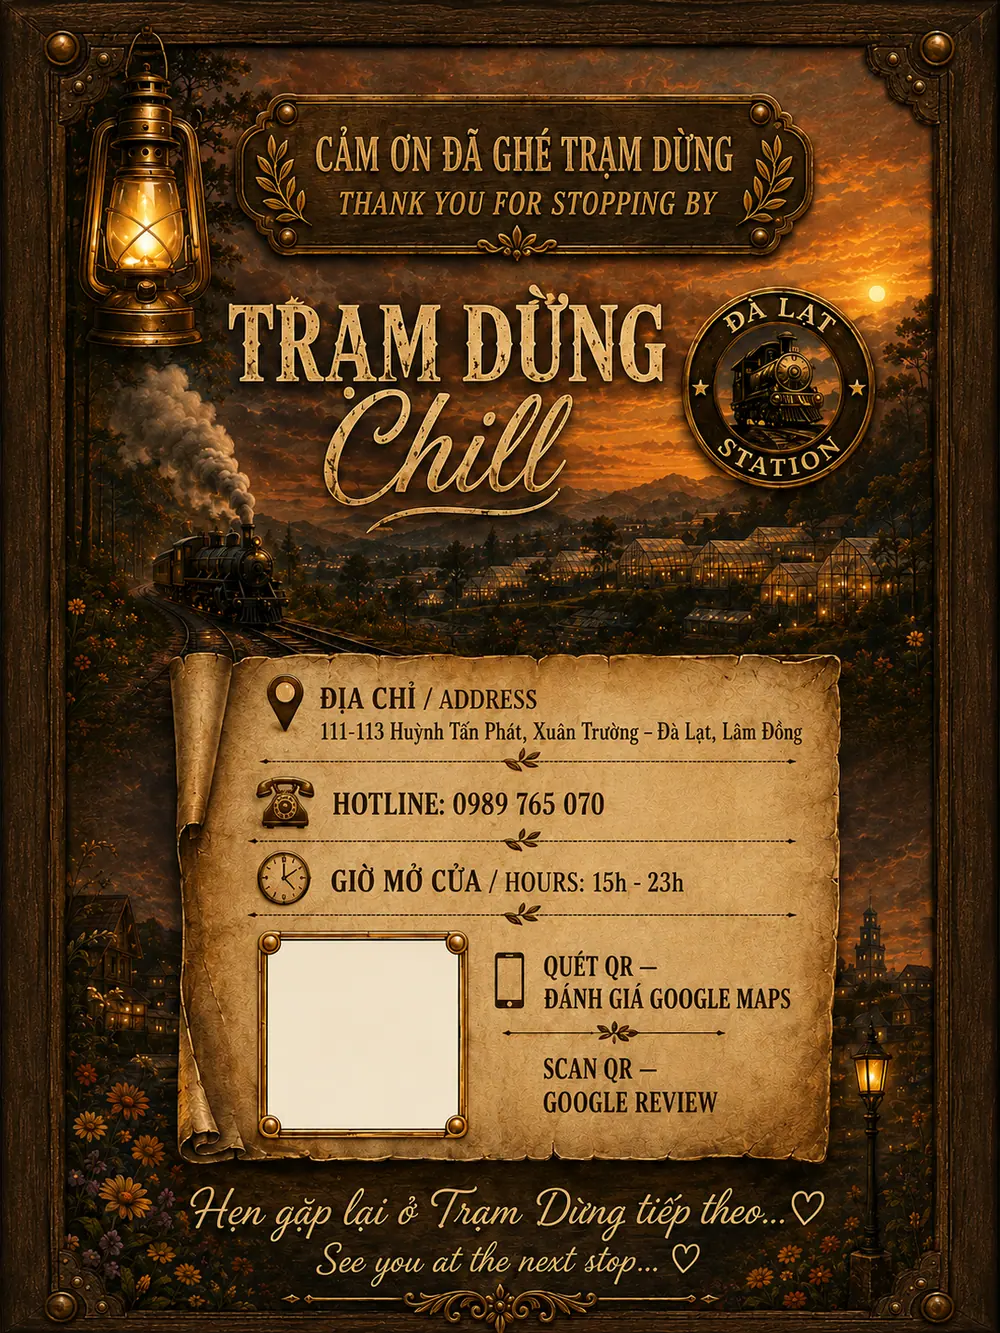
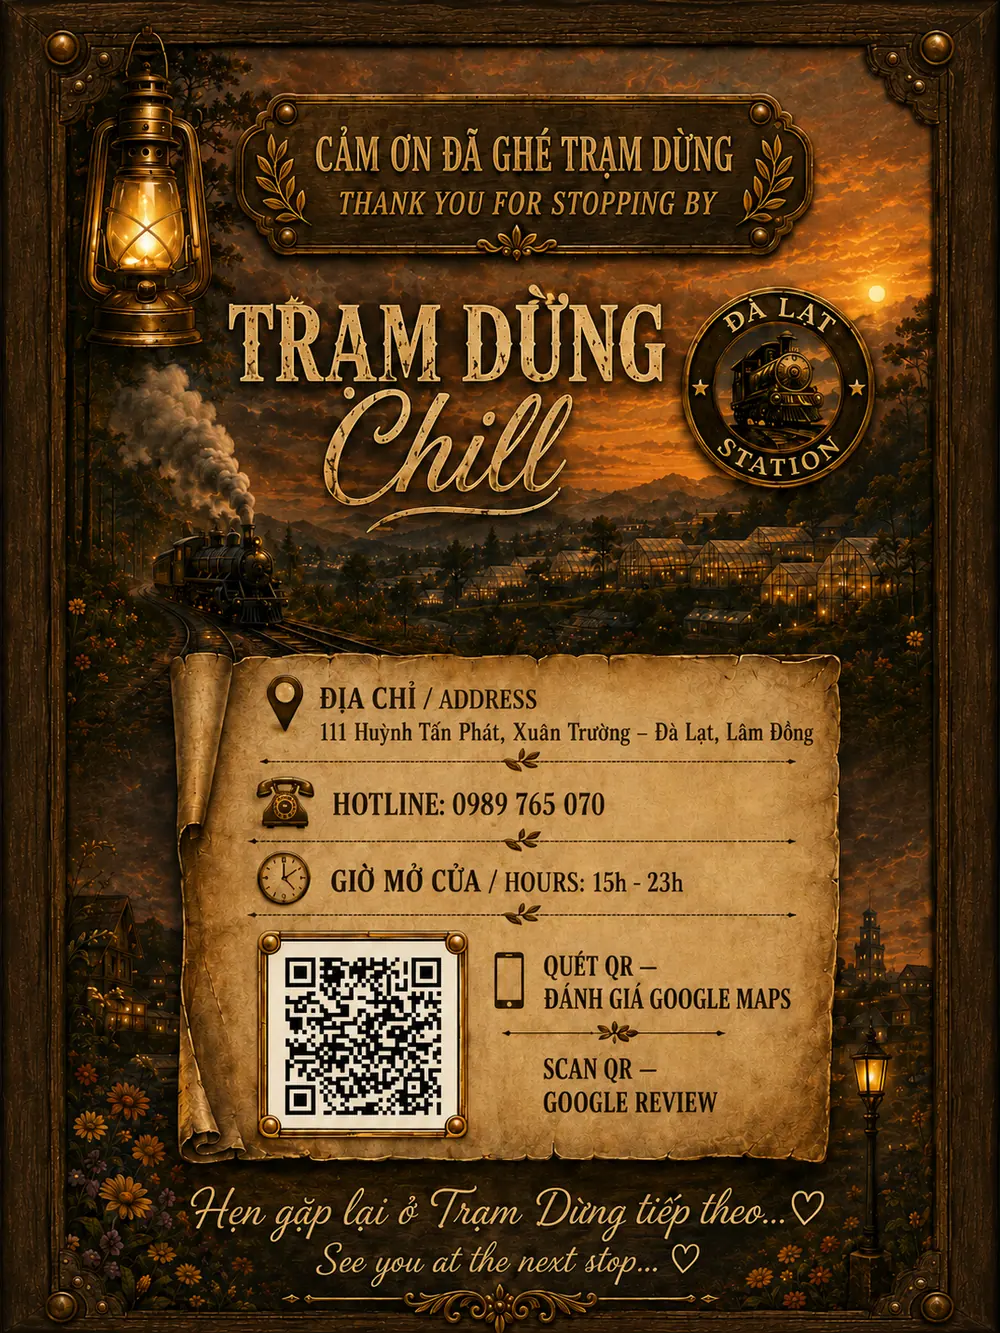
feat(menu): trang cam on ban moi — da co ma QR that, dia chi ve dung "111"
Trang 26 ban cu de o QR trong va ghi dia chi "111-113 Huynh Tan Phat". Ban moi
sep Tuan gui da co ma QR danh gia Google Maps, va dia chi ghi "111" — khop voi
ca site va Google Business Profile, het cai lech da neu hom 04/08.

Sua alt hai trang cho khop anh that:
- Trang 26: 111-113 -> 111.
- Trang 1 (bia): BO HAN so nha khoi alt. Anh bia van dang in "111-113", nhac lai
  con so do trong alt la tu gui cho Google hai dia chi khac nhau cua cung mot
  quan — hai NAP cho local SEO. Alt gio chi ghi "duong Huynh Tan Phat, Xuan
  Truong", dung voi anh ma khong tao tin hieu dia chi thu hai.

CHUA VERIFY DUOC ma QR tro toi dau — khong co thu vien giai ma QR trong repo.
Sep Tuan quet thu bang dien thoai truoc khi dem menu nay di in.

seo-geo-verify: 32/32 PASS

diff --git a/menu.html b/menu.html
@@ -1194,7 +1194,7 @@
                          srcset="assets/menu-pages/menu-quan-nuong-da-lat-01-bia-tram-dung-chill-560.webp?v=e14d1517 560w, assets/menu-pages/menu-quan-nuong-da-lat-01-bia-tram-dung-chill-1000.webp?v=e0616436 1000w"
                          sizes="(min-width: 900px) 46vw, 92vw"
                          width="1054" height="1492"
-                         alt="Bìa menu Tiệm Nướng Trạm Dừng Chill — quán nướng Đà Lạt view hoàng hôn và tàu cổ, 111-113 Huỳnh Tấn Phát, mở cửa 15h-23h"
+                         alt="Bìa menu Tiệm Nướng Trạm Dừng Chill — quán nướng Đà Lạt view hoàng hôn và tàu cổ, đường Huỳnh Tấn Phát, Xuân Trường, mở cửa 15h-23h"
                          loading="eager" decoding="async" fetchpriority="high">
                     <figcaption class="flip-page-caption">Trang 1/26 — Bìa</figcaption>
                 </figure>
@@ -1415,11 +1415,11 @@
                     <figcaption class="flip-page-caption">Trang 25/26 — Rượu</figcaption>
                 </figure>
                 <figure class="flip-page" data-page="26" data-group="lien-he" data-group-label="Liên hệ" data-group-i18n="flip.group.contact">
-                    <img src="assets/menu-pages/menu-quan-nuong-da-lat-26-dia-chi-gio-mo-cua-danh-gia-google-1000.webp?v=73c1cb05"
-                         srcset="assets/menu-pages/menu-quan-nuong-da-lat-26-dia-chi-gio-mo-cua-danh-gia-google-560.webp?v=538decf1 560w, assets/menu-pages/menu-quan-nuong-da-lat-26-dia-chi-gio-mo-cua-danh-gia-google-1000.webp?v=73c1cb05 1000w"
+                    <img src="assets/menu-pages/menu-quan-nuong-da-lat-26-dia-chi-gio-mo-cua-danh-gia-google-1000.webp?v=2f399b4e"
+                         srcset="assets/menu-pages/menu-quan-nuong-da-lat-26-dia-chi-gio-mo-cua-danh-gia-google-560.webp?v=497c689f 560w, assets/menu-pages/menu-quan-nuong-da-lat-26-dia-chi-gio-mo-cua-danh-gia-google-1000.webp?v=2f399b4e 1000w"
                          sizes="(min-width: 900px) 46vw, 92vw"
                          width="1086" height="1448"
-                         alt="Trang cuối menu Trạm Dừng Chill: địa chỉ 111-113 Huỳnh Tấn Phát, Xuân Trường - Đà Lạt, hotline 0989 765 070, giờ mở cửa 15h-23h, mã QR đánh giá Google Maps"
+                         alt="Trang cuối menu Trạm Dừng Chill: địa chỉ 111 Huỳnh Tấn Phát, Xuân Trường - Đà Lạt, hotline 0989 765 070, giờ mở cửa 15h-23h, mã QR đánh giá Google Maps"
                          loading="lazy" decoding="async">
                     <figcaption class="flip-page-caption">Trang 26/26 — Liên hệ</figcaption>
                 </figure>

diff --git a/data/menu-pages.js b/data/menu-pages.js
@@ -45,7 +45,10 @@ var MENU_PAGES = [
         n: 1,
         group: 'bia-sach',
         slug: 'menu-quan-nuong-da-lat-01-bia-tram-dung-chill',
-        alt: 'Bìa menu Tiệm Nướng Trạm Dừng Chill — quán nướng Đà Lạt view hoàng hôn và tàu cổ, 111-113 Huỳnh Tấn Phát, mở cửa 15h-23h'
+        // Không nêu số nhà ở alt trang bìa: ảnh bìa còn in "111-113" trong khi cả site
+        // và Google Business Profile dùng "111". Nhắc lại số lệch trong alt là tự gửi
+        // cho Google hai địa chỉ khác nhau của cùng một quán.
+        alt: 'Bìa menu Tiệm Nướng Trạm Dừng Chill — quán nướng Đà Lạt view hoàng hôn và tàu cổ, đường Huỳnh Tấn Phát, Xuân Trường, mở cửa 15h-23h'
     },
     {
         n: 2,
@@ -195,7 +198,7 @@ var MENU_PAGES = [
         n: 26,
         group: 'lien-he',
         slug: 'menu-quan-nuong-da-lat-26-dia-chi-gio-mo-cua-danh-gia-google',
-        alt: 'Trang cuối menu Trạm Dừng Chill: địa chỉ 111-113 Huỳnh Tấn Phát, Xuân Trường - Đà Lạt, hotline 0989 765 070, giờ mở cửa 15h-23h, mã QR đánh giá Google Maps'
+        alt: 'Trang cuối menu Trạm Dừng Chill: địa chỉ 111 Huỳnh Tấn Phát, Xuân Trường - Đà Lạt, hotline 0989 765 070, giờ mở cửa 15h-23h, mã QR đánh giá Google Maps'
     }
 ];
 
